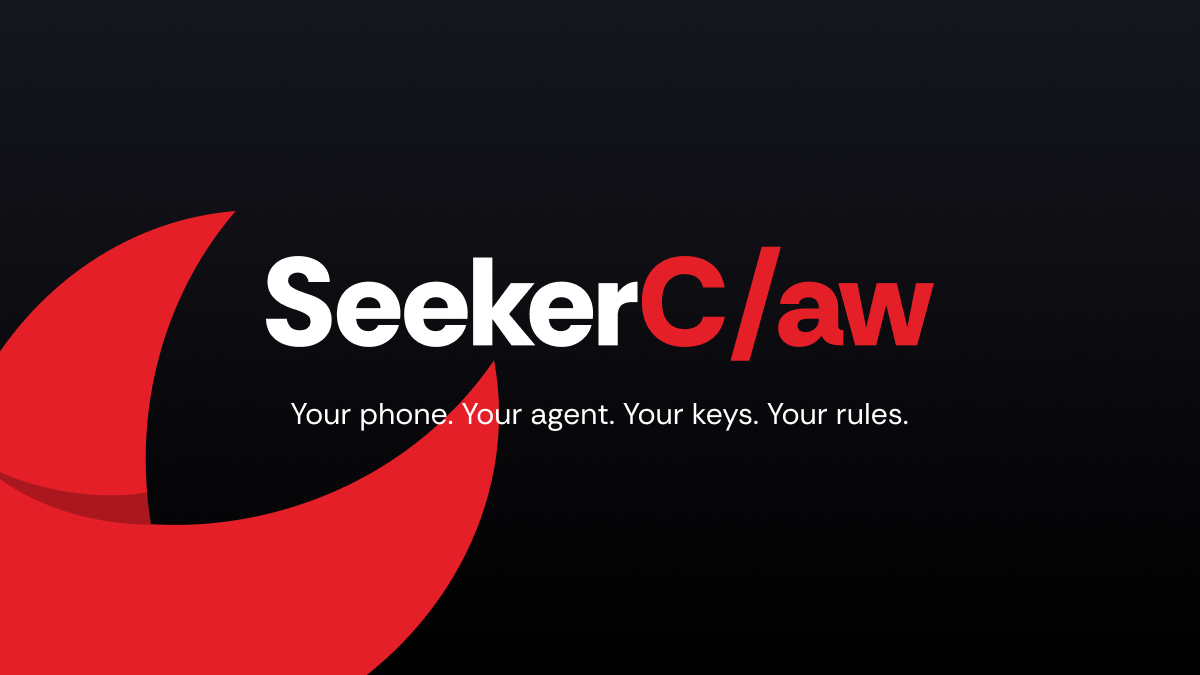
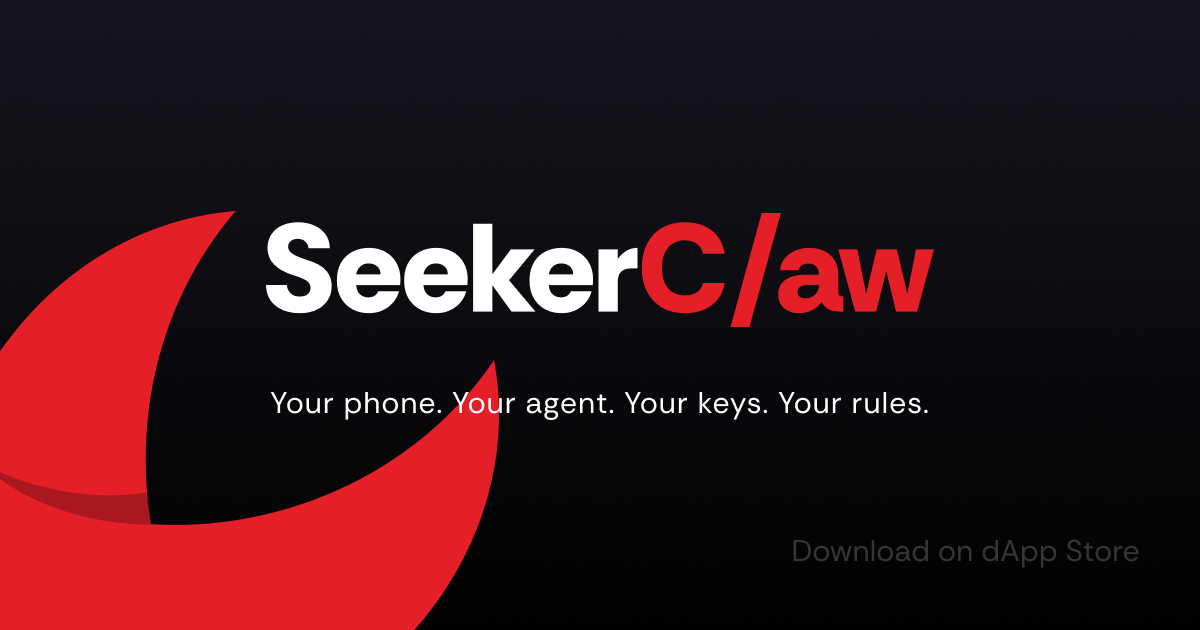
Update OG image and title

diff --git a/index.html b/index.html
@@ -11,14 +11,14 @@
   <link rel="canonical" href="https://seekerclaw.xyz/">
 
   <!-- Open Graph -->
-  <meta property="og:title" content="SeekerClaw — The AI Agent Layer for Solana Seeker">
+  <meta property="og:title" content="SeekerClaw - Turn Your Solana Seeker Into an AI Agent">
   <meta property="og:description" content="Turn your Seeker phone into an autonomous AI agent. Monitor wallets, automate DeFi, get Telegram alerts — 24/7 on-device.">
   <meta property="og:type" content="website">
   <meta property="og:url" content="https://seekerclaw.xyz/">
   <meta property="og:image" content="https://seekerclaw.xyz/assets/og-image.png">
   <meta property="og:image:width" content="1200">
   <meta property="og:image:height" content="675">
-  <meta property="og:image:alt" content="SeekerClaw — The AI Agent Layer for Solana Seeker">
+  <meta property="og:image:alt" content="SeekerClaw - Turn Your Solana Seeker Into an AI Agent">
   <meta property="og:site_name" content="SeekerClaw">
   <meta property="og:locale" content="en_US">
 
